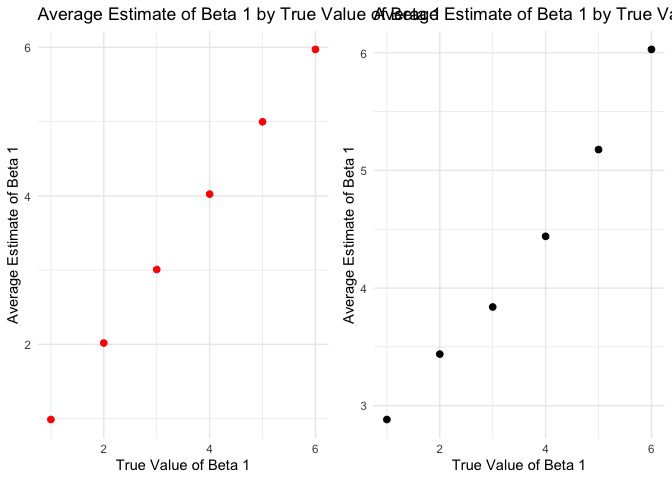
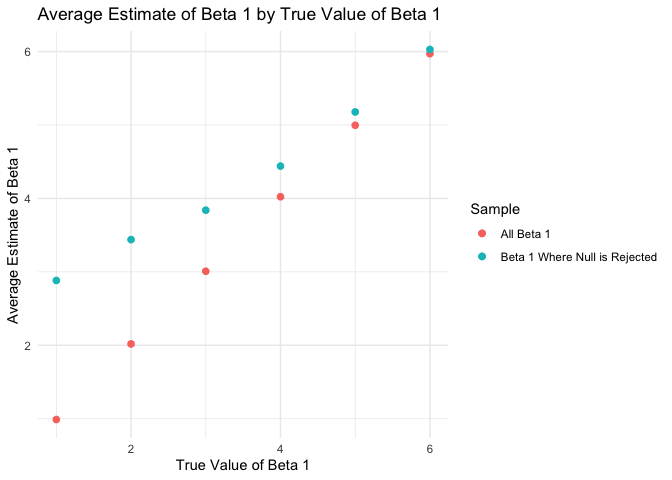
problem 3 complete

diff --git a/p8105_hw5_cq2207.md b/p8105_hw5_cq2207.md
@@ -7,14 +7,14 @@ Carolina Q Cardoso
 library(tidyverse)
 ```
 
-    ## ── Attaching packages ────────────────────────────────────────────────────────────────────────── tidyverse 1.2.1 ──
+    ## ── Attaching packages ──────────────────────────────────────────────────────────────────────────────────────── tidyverse 1.2.1 ──
 
     ## ✔ ggplot2 3.2.1     ✔ purrr   0.3.2
     ## ✔ tibble  2.1.3     ✔ dplyr   0.8.3
     ## ✔ tidyr   1.0.0     ✔ stringr 1.4.0
     ## ✔ readr   1.3.1     ✔ forcats 0.4.0
 
-    ## ── Conflicts ───────────────────────────────────────────────────────────────────────────── tidyverse_conflicts() ──
+    ## ── Conflicts ─────────────────────────────────────────────────────────────────────────────────────────── tidyverse_conflicts() ──
     ## ✖ dplyr::filter() masks stats::filter()
     ## ✖ dplyr::lag()    masks stats::lag()
 
@@ -37,7 +37,6 @@ library(rvest)
 
 ``` r
 library(ggplot2)
-library(patchwork)
 
 set.seed(10)
 
@@ -237,50 +236,45 @@ sim_results2 %>%
 As effect size incerases, power also incerases. There is a positive
 relationship between the two measures.
 
-5)  
-<!-- end list -->
+5)  *a. Make a plot showing the average estimate of β̂ 1 on the y axis
+    and the true value of β1 on the x axis*.
 
-1.  Make a plot showing the average estimate of β̂ 1 on the y axis and
-    the true value of β1 on the x axis.
-2.  Make a second plot (or overlay on the first) the average estimate of
-    β̂ 1 only in samples for which the null was rejected on the y axis
-    and the true value of β1 on the x axis.
-
-<!-- end list -->
+*b. Make a second plot (or overlay on the first) the average estimate of
+β̂ 1 only in samples for which the null was rejected on the y axis and
+the true value of β1 on the x axis.*
 
 ``` r
-data_plot1 = sim_results2 %>%
+plot1 = sim_results2 %>%
   group_by(beta_1) %>%
   summarize(mean_b1 = mean(beta1_hat)) 
 
-plot1 = ggplot(data = data_plot1, aes(x = beta_1, y = mean_b1)) +
-  geom_point(size = 2, color = "red") +
-  labs(
-    title = "Average Estimate of Beta 1 by True Value of Beta 1 ",
-    x="True Value of Beta 1", 
-    y="Average Estimate of Beta 1") + 
-  theme_minimal()
-
-data_plot2 = sim_results2 %>%
+plot2 = sim_results2 %>%
   mutate(reject = ifelse(p_value < 0.05, "yes", "no"), reject = as.factor(reject)) %>%
   group_by(beta_1, reject) %>%
   summarize(mean_b1 = mean(beta1_hat)) %>%
   filter(reject == "yes") 
 
-plot2 = ggplot(data = data_plot2, aes(x = beta_1, y = mean_b1)) +
-  geom_point(size = 2) +
+ggplot(data = plot1, aes(x = beta_1, y = mean_b1, color = "All")) +
+  geom_point(size = 2) + geom_point(data = plot2, aes(x = beta_1, y = mean_b1, color = "Rejected"), size = 2) +
+  scale_colour_discrete(name="Sample",
+                            breaks=c("All", "Rejected"),
+                            labels=c("All Beta 1", "Beta 1 Where Null is Rejected")) +
   labs(
     title = "Average Estimate of Beta 1 by True Value of Beta 1 ",
     x="True Value of Beta 1", 
     y="Average Estimate of Beta 1") + 
   theme_minimal()
-
-
-plot1 + plot2
 ```
 
 ![](p8105_hw5_cq2207_files/figure-gfm/-%20problem3-plots-1.png)<!-- -->
 
-3.  Is the sample average of β̂ 1 across tests for which the null is
-    rejected approximately equal to the true value of β1? Why or why
-    not?
+*c. Is the sample average of β̂ 1 across tests for which the null is
+rejected approximately equal to the true value of β1? Why or why not?*
+
+The graph above shows a discrepancy between the average Beta 1 estimate
+across tests for which the null is rejected and when the true valeu of
+Beta 1. When the null is rejected the average estimate of Beta 1 is
+higher, that is, the effect size for that subset is larger than for the
+full sample. The difference is greater for the smaler values of Beta 1
+and decreases as Beta 1 increases, because the null is rejected more
+frequently at larger effect sizes.
